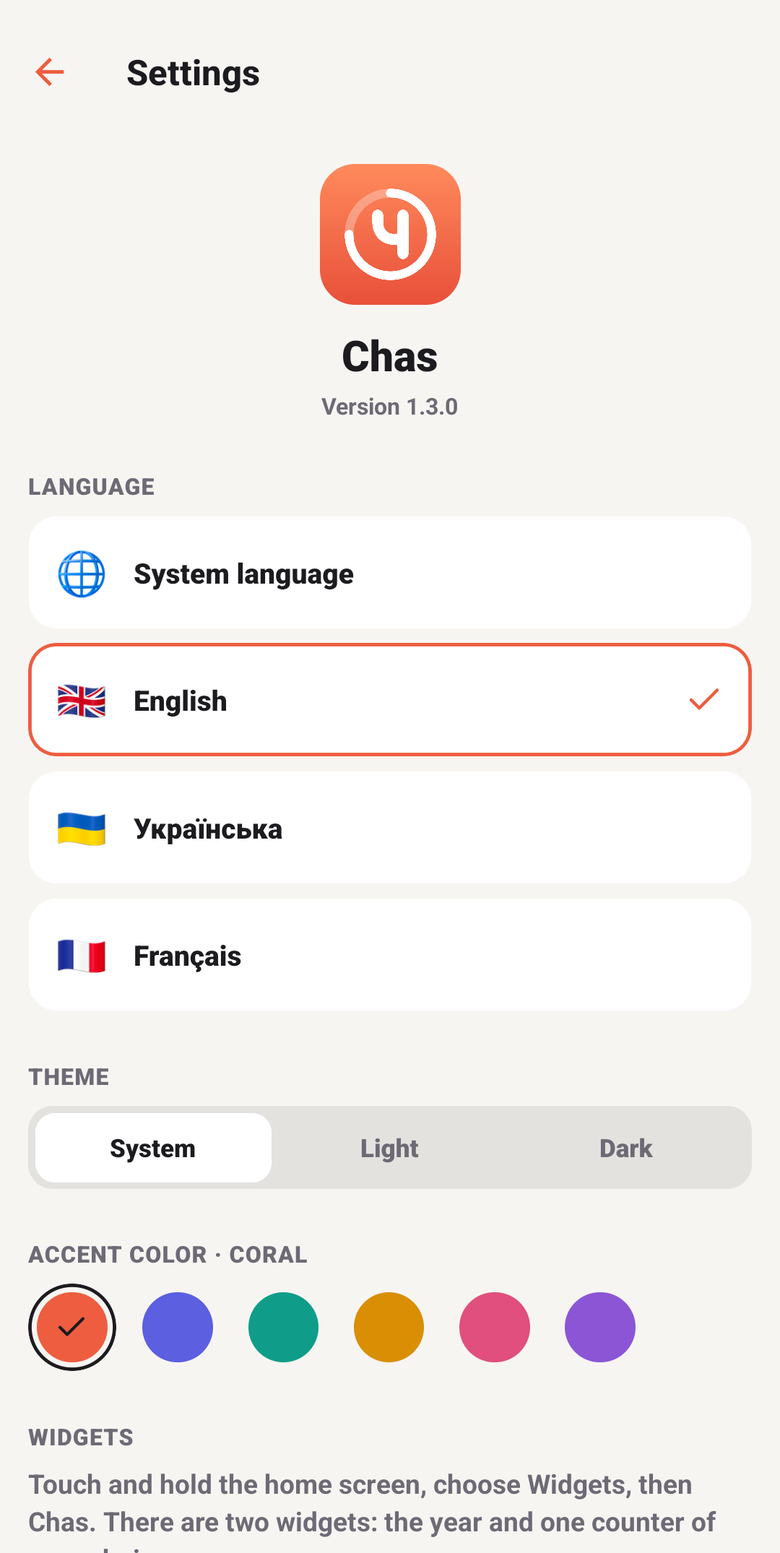
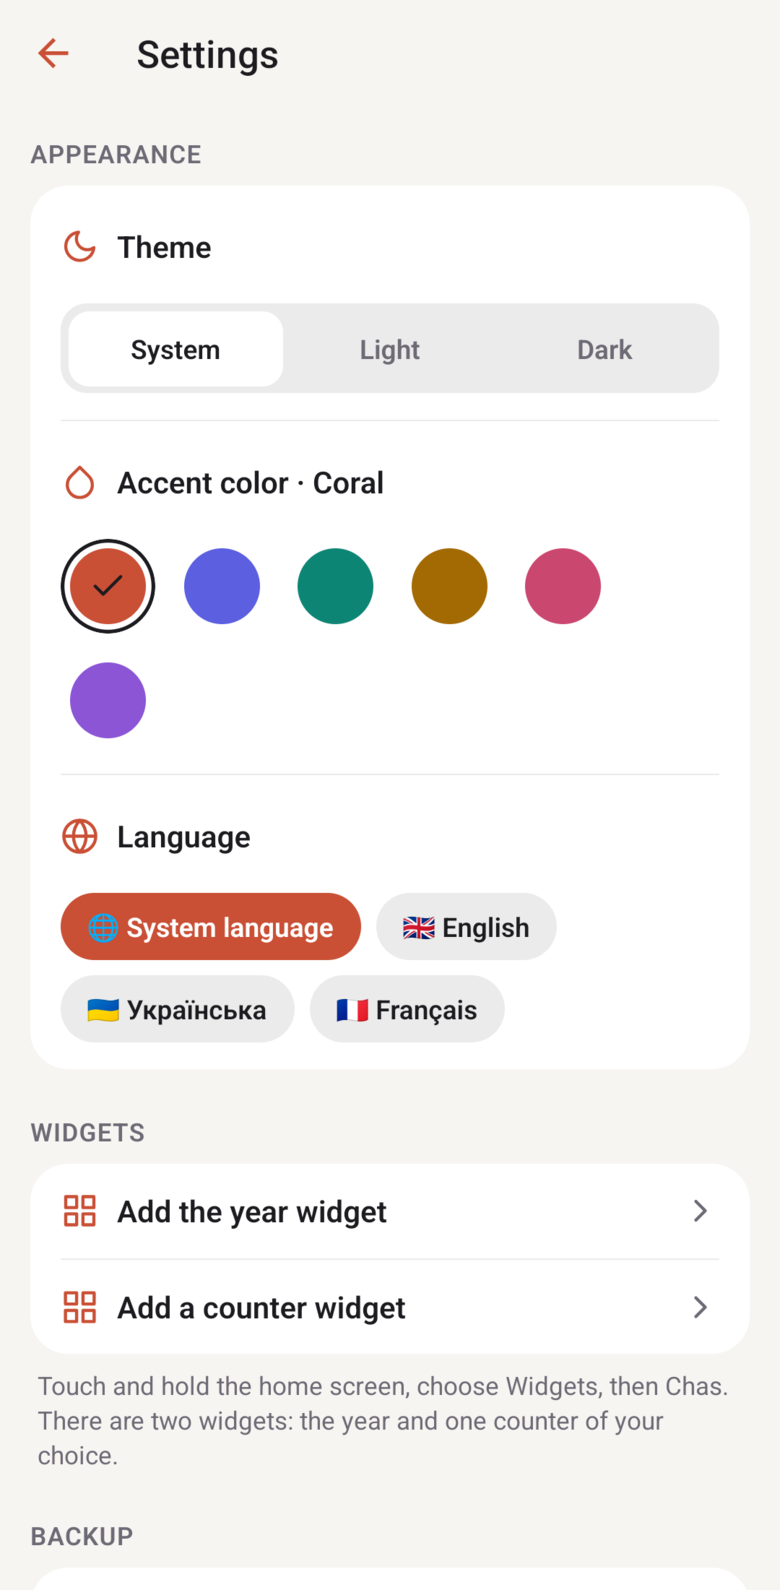
Update the screenshots and the README
- New screenshots from the Android emulator with demo data: home, swipe, details, the new form, settings.
- Add a screenshot of the calendar event list.
- Describe the new form and the calendar in Features. The calendar is read only.
- Say that the calendar does not work in Expo Go, and update the project structure.
- Write down in the checkpoint how the screenshots were made.

diff --git a/README.md b/README.md
@@ -12,14 +12,20 @@ It runs on Android and iOS. Built with React Native, Expo and Expo Router.
     <td><img src="docs/screenshots/home.png" width="200" alt="Home screen with the year card and counters" /></td>
     <td><img src="docs/screenshots/swipe.png" width="200" alt="Swipe actions: delete on the right, edit on the left" /></td>
     <td><img src="docs/screenshots/details.png" width="200" alt="Counter details" /></td>
-    <td><img src="docs/screenshots/new-counter.png" width="200" alt="New counter form" /></td>
-    <td><img src="docs/screenshots/settings.png" width="200" alt="Settings" /></td>
   </tr>
   <tr>
     <td align="center">Year card and counters</td>
     <td align="center">Swipe to edit or delete</td>
     <td align="center">Counter details</td>
+  </tr>
+  <tr>
+    <td><img src="docs/screenshots/new-counter.png" width="200" alt="New counter form: the card with the name and the icon, the colors, and one panel for the date, the repeat and the reminder" /></td>
+    <td><img src="docs/screenshots/calendar.png" width="200" alt="A list of events from the phone calendar" /></td>
+    <td><img src="docs/screenshots/settings.png" width="200" alt="Settings" /></td>
+  </tr>
+  <tr>
     <td align="center">New counter</td>
+    <td align="center">Choose an event from the calendar</td>
     <td align="center">Settings</td>
   </tr>
 </table>
@@ -35,14 +41,17 @@ It runs on Android and iOS. Built with React Native, Expo and Expo Router.
 - **Reminders** (Android) — for a countdown: on the day, 1 day before or 1 week before. For all counters: on a date that you choose. Each counter has its own reminder time. Tap the notification to open the counter.
 - Counters in groups: upcoming (nearest first), since, goals and past.
 - Details: weeks and days left, weekends left, days passed of the total.
-- Create and edit counters with a live preview, quick dates, emoji and 12 card colors.
+- Create and edit counters on the card itself: type the name in the card, tap the icon to change it,
+  and choose one of 12 card colors under the card. The date, the repeat and the reminder are in one panel, with quick dates.
+- **From the calendar** — choose an event from the phone calendar, and Chas makes a countdown with its name and date.
+  Yearly and monthly events, for example birthdays, become repeating countdowns. Chas only reads the calendar. It never changes it.
 - Swipe a counter on the home screen: to the right to edit it, to the left to delete it.
 - Android home screen widgets: the year, and one counter of your choice. Add them from Settings or from the home screen.
   Make a widget wide, and the text moves beside the ring or the number.
 - Native date and time pickers on Android and iOS.
 - Light, dark and system themes, and six accent colors.
 - English, Ukrainian and French. The app follows the phone language, or you can choose one in Settings.
-- All data stays on the device (AsyncStorage).
+- All data stays on the device (AsyncStorage). The calendar events stay on the device too.
 
 ## Install
 
@@ -58,7 +67,7 @@ npm run android    # open in an Android emulator or a connected device
 npm run ios        # open in the iOS simulator (macOS only)
 ```
 
-Widgets do not work in Expo Go. To test them, build the APK (see below).
+Widgets and the calendar do not work in Expo Go. To test them, make a development build (`npx expo run:android`) or build the APK (see below).
 
 ## Checks
 
@@ -109,11 +118,11 @@ src/
 │   ├── index.tsx   # Year countdown and counter groups
 │   ├── edit.tsx    # Create or edit a counter
 │   ├── [id].tsx    # Counter details
-│   └── settings.tsx# Language, theme, accent color, widgets, support
+│   └── settings.tsx# Appearance (theme, accent color, language), widgets, backup, support
 ├── components/     # UI parts
 ├── models/         # TypeScript types
 ├── i18n/           # Translations (en, uk, fr)
-├── services/       # Storage (AsyncStorage) and reminders (notifications)
+├── services/       # Storage (AsyncStorage), reminders (notifications), backup and calendar
 ├── theme/          # Colors
 ├── utils/          # Day, year, percent and reminder calculations
 ├── widgets/        # Android widgets and their configuration screen
@@ -124,7 +133,8 @@ index.ts            # Entry: Expo Router and widget registration
 
 ## About the screenshots
 
-The screenshots come from an Android phone with version 1.3.0.
+The screenshots come from the Android emulator with demo data, with the changes after version 1.4.0.
+The widget picture comes from an Android phone with version 1.3.0.
 The web build has no reminders and no widgets. It uses the browser date and time inputs.
 
 ## Roadmap

diff --git a/docs/CHECKPOINT.md b/docs/CHECKPOINT.md
@@ -124,7 +124,7 @@ These parts pass the checks, but nobody has used them on a device yet:
 - The new year card and the wide widgets.
 - Not released: the calendar event list and the new edit form passed a test on the Android emulator
   (permission, a yearly all-day birthday, a timed event). Not tested on a real phone or on iOS.
-  The settings page is not tested on Android.
+  The settings page passed a test on the emulator too.
 - 1.4.0: backup export and import (the share sheet and the file picker), the bar behind the status bar,
   the reload after the app comes back from the background, 3 reminders ahead for repeating countdowns.
 
@@ -140,7 +140,12 @@ These parts pass the checks, but nobody has used them on a device yet:
 - A custom reminder comes only once. There is no repeating reminder (for example, each week for a goal).
 - Swipe actions have no screen reader support. The details screen still has edit and delete.
 - A backup has only the counters. It does not have the settings or the widget choices.
-- The README screenshots show the old accent colors (before 1.4.0). Do not change them without the owner's approval.
+- The README screenshots come from the emulator with demo data (after 1.4.0). `widgets.jpg` is still from 1.3.0.
+  Ask the owner before you change the screenshots.
+  How they were made: `npx expo run:android --variant release` (no dev warnings on the screen).
+  Demo counters go into `counters:v1` in `databases/RKStorage` with `sqlite3` through `run-as`. `run-as` needs the
+  debug APK, so install the debug APK, write the data, then install the release APK again (same key, the data stays).
+  Crop 136 px at the top and 63 px at the bottom (system bars), then scale to 780 px wide.
 
 ## Ideas for next time
 
